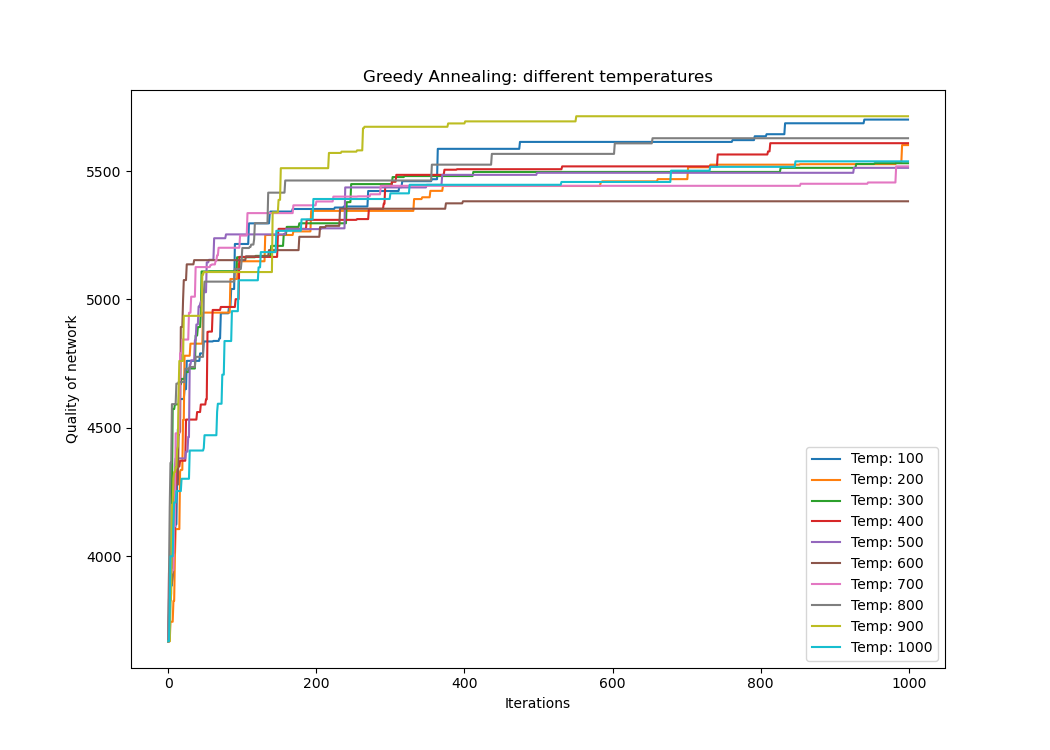
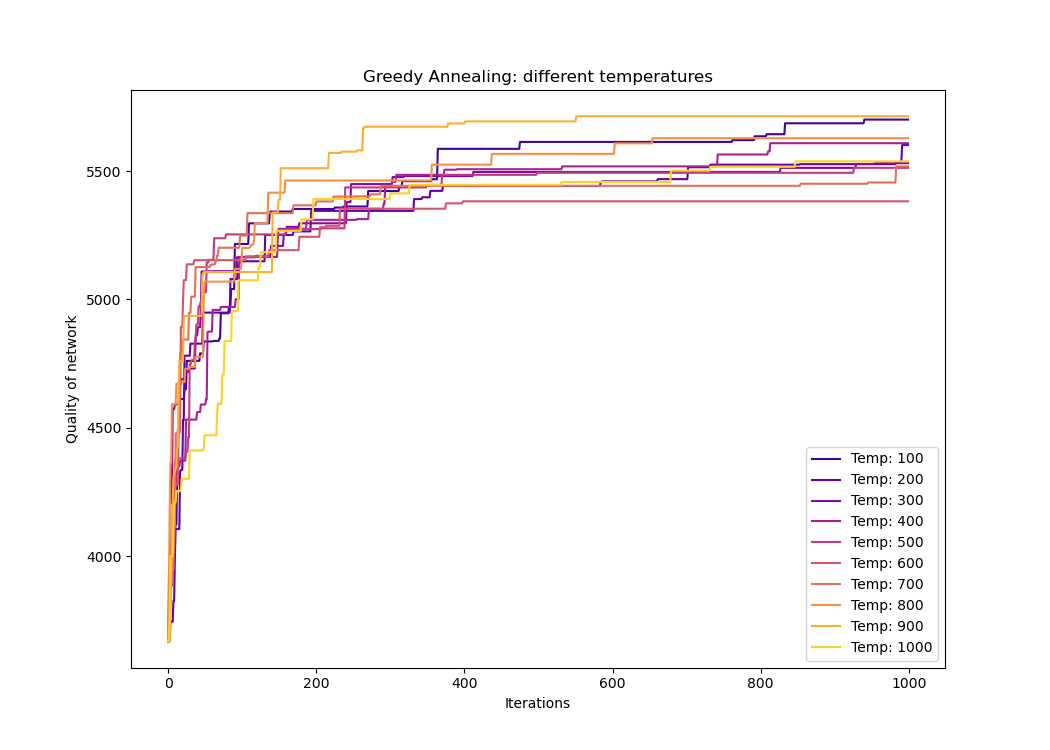
slight adjustments to funcs and main

Changed region(s): [[0.1524, 0.1533, 0.8838, 0.8587]]

diff --git a/experiments/greedyannealing_experiment.py b/experiments/greedyannealing_experiment.py
@@ -4,11 +4,11 @@ from code.algorithms.randomised import RandomNet
 from code.algorithms.simulatedannealing import GreedyAnnealing
 import matplotlib.pyplot as plt 
 
-def greedy_annealing(random_network, all_stations, heuristic, iterations=1000, temperature=1000): 
+def greedy_annealing(file, random_network, all_stations, heuristic, iterations=1000, temperature=1000): 
 
     ga = GreedyAnnealing(random_network, all_stations, temperature, heuristic)
 
-    with open('results/greedyannealing/greedyannealing.csv', 'w', newline='') as f: 
+    with open(f'results/greedyannealing/greedyannealing_{file}.csv', 'w', newline='') as f: 
         writer = csv.writer(f, delimiter=',')
 
         for i in tqdm(range(iterations), desc='Greedy Annealing:'): 
@@ -18,7 +18,7 @@ def greedy_annealing(random_network, all_stations, heuristic, iterations=1000, t
 
 # ====================== Comparing different numbers of routes ======================
 
-def greedy_anneal_compare_routes(network_object, all_stations, ammount_of_routes, heuristic, iterations=1000, temperature=1000):
+def greedy_anneal_compare_routes(file, network_object, all_stations, ammount_of_routes, heuristic, iterations=1000, temperature=1000):
 
     for r in range(1, ammount_of_routes+1): 
 
@@ -28,19 +28,19 @@ def greedy_anneal_compare_routes(network_object, all_stations, ammount_of_routes
 
         ga = GreedyAnnealing(random_network, all_stations, temperature, heuristic)
 
-        with open(f'results/greedyannealing/compare_routes/ga_{r}_routes.csv', 'w', newline='') as f:
+        with open(f'results/greedyannealing/compare_routes/ga_{r}_routes_{file}.csv', 'w', newline='') as f:
             writer = csv.writer(f, delimiter=',')
 
             for i in tqdm(range(iterations), desc=f'Greedy Annealing, routes{r}:', leave=False): 
                 ga.run(1)
                 writer.writerow([ga.network.quality()])
 
-def plot_ga_compare_routes(amount_of_routes, highest_values_only): 
+def plot_ga_compare_routes(file, amount_of_routes, highest_values_only): 
 
     fig, ax = plt.subplots()
 
     for r in range(1, amount_of_routes+1):
-        with open(f'results/greedyannealing/compare_routes/ga_{r}_routes.csv', 'r') as f:
+        with open(f'results/greedyannealing/compare_routes/ga_{r}_route{file}.csv', 'r') as f:
             reader = csv.reader(f, delimiter=',')
             values = list(reader)
             values = [float(k) for sublist in values for k in sublist]
@@ -70,30 +70,30 @@ def plot_ga_compare_routes(amount_of_routes, highest_values_only):
 
 # ====================== Comparing different temperatures ======================
 
-def greedy_anneal_compare_temps(random_network, all_stations, heuristic, iterations=1000, temperature=1000):
+def greedy_anneal_compare_temps(file, random_network, all_stations, heuristic, iterations=1000, temperature=1000):
 
     for temp in range(100, temperature+100, 100): 
 
         ga = GreedyAnnealing(random_network, all_stations, temp, heuristic)
 
-        with open(f'results/greedyannealing/compare_temps/ga_temp{temp}.csv', 'w', newline='') as f:
+        with open(f'results/greedyannealing/compare_temps/ga_temp{temp}_{file}.csv', 'w', newline='') as f:
             writer = csv.writer(f, delimiter=',')
 
             for i in tqdm(range(iterations), desc=f'Greedy Annealing, temp{temp}:', leave=False): 
                 ga.run(1)
                 writer.writerow([ga.network.quality()])
 
-def plot_ga_compare_temps(temperature): 
+def plot_ga_compare_temps(file, temperature): 
 
     fig, ax = plt.subplots()
     cmap = plt.colormaps["plasma"]
 
     for temp in range(100, temperature+100, 100):
-        with open(f'results/greedyannealing/compare_temps/ga_temp{temp}.csv', 'r') as f:
+        with open(f'results/greedyannealing/compare_temps/ga_temp{temp}_{file}.csv', 'r') as f:
             reader = csv.reader(f, delimiter=',')
             values = list(reader)
             values = [float(k) for sublist in values for k in sublist]
-            ax.plot(values, label=f'Temp: {temp}', color=cmap(temp))
+            ax.plot(values, label=f'Temp: {temp}', color=cmap(temp/1100))
     
     
     ax.legend(loc='lower right')

diff --git a/main.py b/main.py
@@ -193,7 +193,7 @@ if __name__ == "__main__":
 
                     # run simulated annealing and greedy annealing 
                     sa = simulated_annealing(random_network, all_stations)
-                    ga = greedy_annealing(random_network, all_stations, unique_connections_heuristic)
+                    ga = greedy_annealing(file, random_network, all_stations, unique_connections_heuristic)
                     hc = stochastic_railclimber(random_network, all_stations)
 
                     plot_sa_vs_ga_vs_hc()
@@ -204,16 +204,16 @@ if __name__ == "__main__":
                 if sim_ann_choice == 2: 
 
                     # runs greedy anneal for all numbers of routes in a network 
-                    greedy_anneal_compare_routes(network_object, all_stations, amount_of_routes, unique_connections_heuristic)
+                    greedy_anneal_compare_routes(file, network_object, all_stations, amount_of_routes, unique_connections_heuristic)
 
                     # plot the qualities for the different routes, put highest_values_only on True to zoom in in the plot 
-                    plot_ga_compare_routes(amount_of_routes, highest_values_only=False)
+                    plot_ga_compare_routes(file, amount_of_routes, highest_values_only=False)
                     break
 
                 if sim_ann_choice == 3: 
                     temp = 1000
-                    greedy_anneal_compare_temps(random_network, all_stations, unique_connections_heuristic, 100, temp)
-                    plot_ga_compare_temps(temp)
+                    # greedy_anneal_compare_temps(random_network, all_stations, unique_connections_heuristic, 100, temp)
+                    plot_ga_compare_temps(file, temp)
 
                     break 
         else: 

diff --git a/README.md b/README.md
@@ -20,7 +20,7 @@ Het aanroepen van de code waarmee er oplossingen van de case worden gegeven is:
 ```python main.py```
 
 Dit geeft een menu met verschillende algoritmes waaruit gekozen kan worden. 
-Vervolgens word de kwaliteit van de lijnvoering met gebruik van het gekozen algoritme weergegeven.
+Vervolgens wordt de kwaliteit van de lijnvoering met gebruik van het gekozen algoritme weergegeven.
 
 ### Structuur
 
